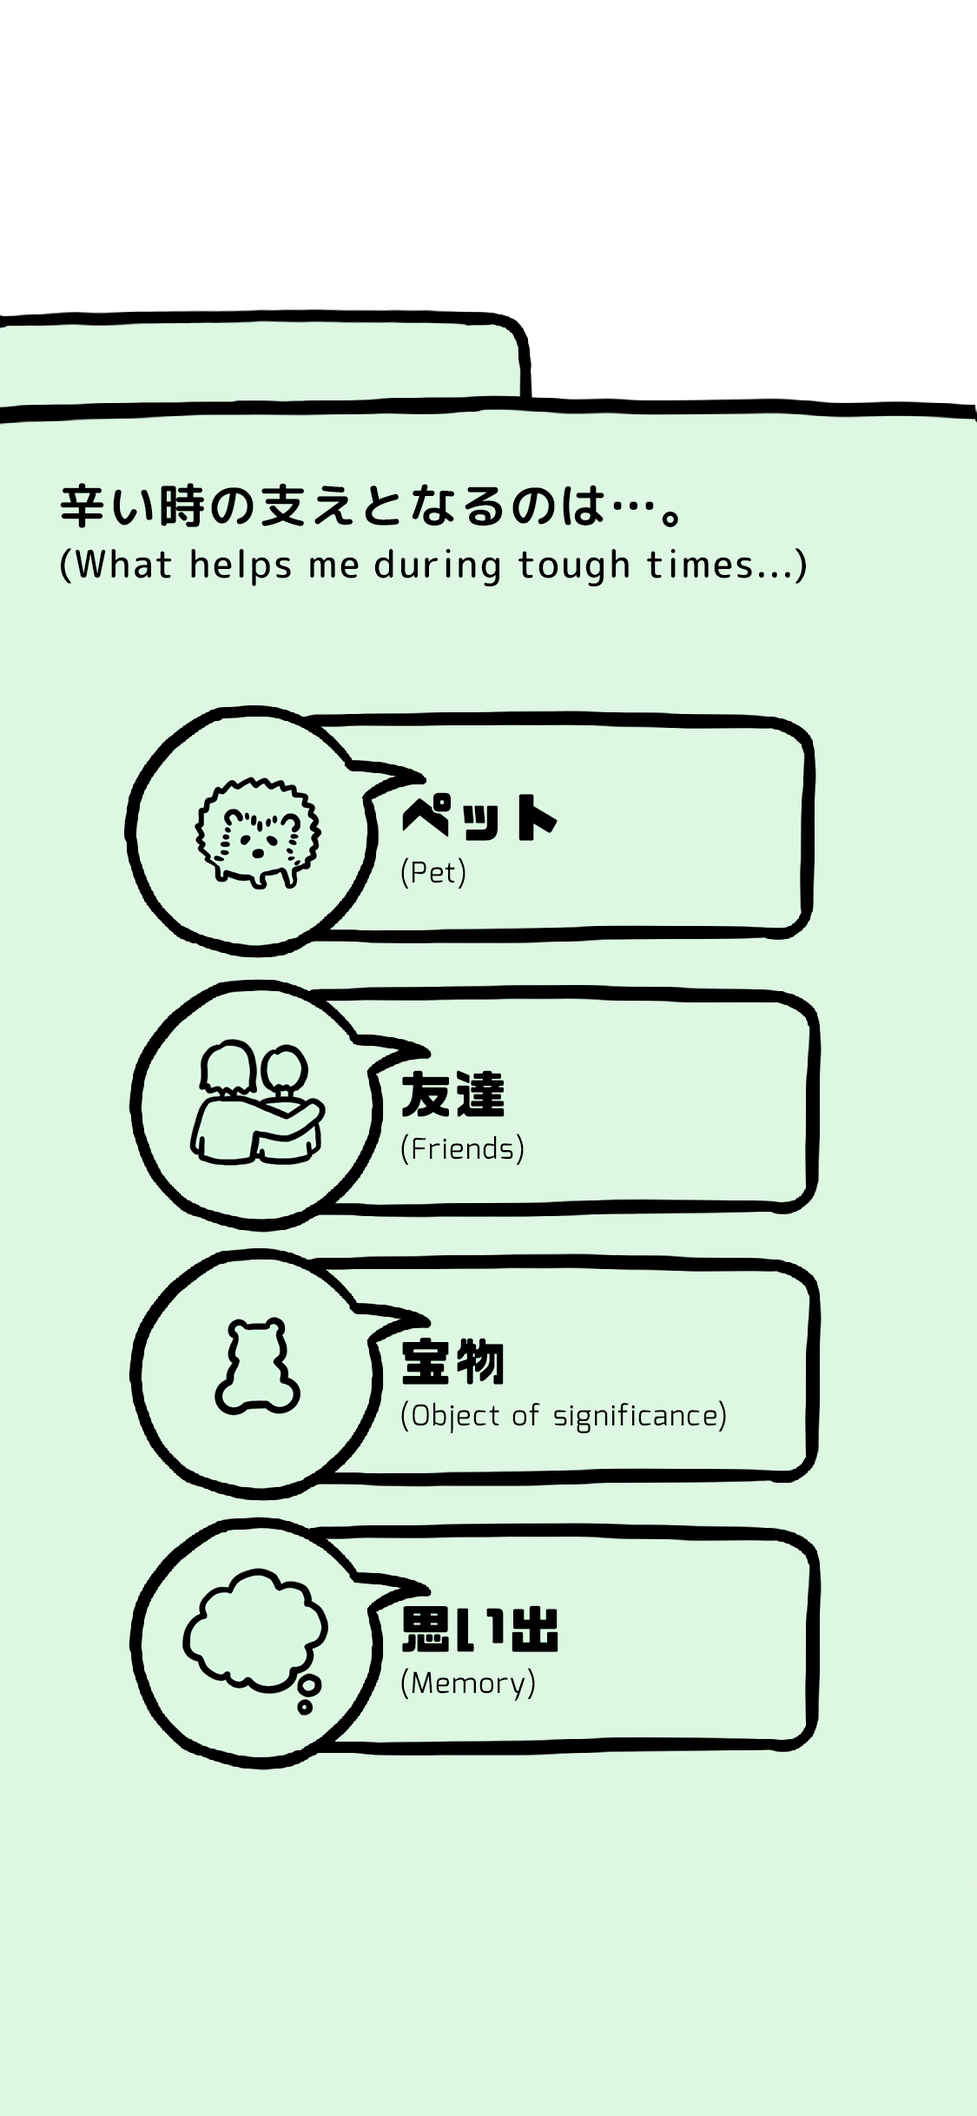
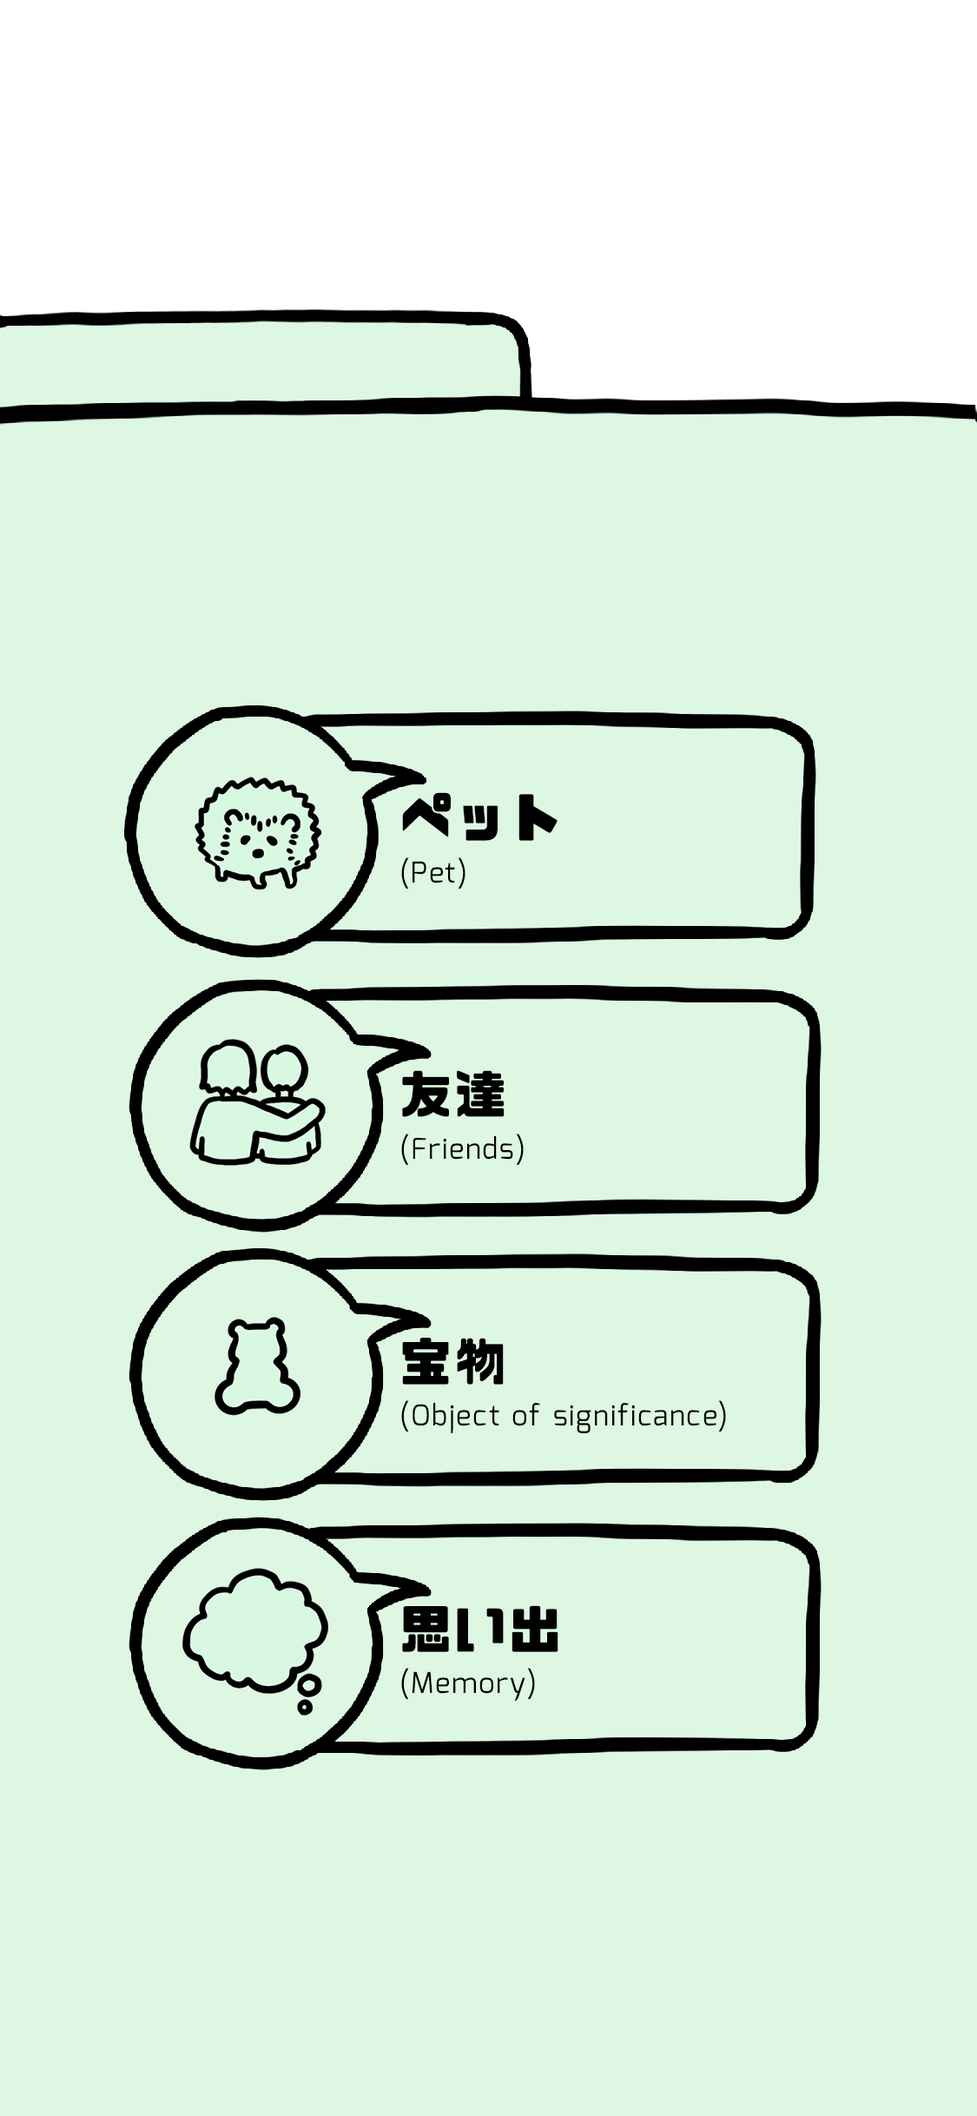
Process of adding text to chapter2

Changed region(s): [[0.0622, 0.2184, 0.6533, 0.2808], [0.6844, 0.2496, 0.7778, 0.2808]]

diff --git a/script/chapter2.js b/script/chapter2.js
@@ -32,55 +32,74 @@ class Chapter2 {
         let slide9Choices = new Choice(chapter2scene9options[0],chapter2scene9options[1],chapter2scene9options[2],chapter2scene9options[3]);
         let slide12Choices = new Choice(chapter2scene12options[0],chapter2scene12options[1],chapter2scene12options[2],chapter2scene12options[3]);
 
-        // let slideOneImages = [slide1Bird];
+        let slide3namePlate = ["MATSUBA","XXX","XXX"];
+        let slide3convoJ = [
+            "お腹すいたー。XXX今日の給食何か知ってる?", 
+            "マツバはいつも食べ物のこと考えてるよね。",
+            "知らないけどいい匂い!"];
+        let slide3convoE = [
+            "(I'm so hungry... Do you know what today's lunch is XXX?)", 
+            "(You're always talking about food Matsuba.)",
+            "(I don't know but it smells great.)"];
+        let slide3texts = new Txt(slide3namePlate, slide3convoJ, slide3convoE, null);
 
-        // this.nextSlideButton = new NextButton ("nextSlide");
+        let slide5namePlate = ["MATSUBA"];
+        let slide5convoJ = [
+            "ジャンボ餃子大好き！給食の中で一番好きなんだ。"];
+        let slide5convoE = [
+            "(I love Jumbo Gyoza. It's my favorite school lunch!)"];
+        let slide5texts = new Txt(slide5namePlate, slide5convoJ, slide5convoE, null);
 
-        // let slide3namePlate = ["SORA","XXX"];
-        // let slide3convoJ = [
-        //     "XXX おはよう！久しぶり。夏休みは長いようであっという間だったね。", 
-        //     "そうだね。ついに学校がまた始まっちゃったー。"];
-        // let slide3convoE = [
-        //     "(Hey XXX! I haven't seen you in so long! Time flew by so quickly.)", 
-        //     "(Yeah. By the time you know it, it's the first day of school again.)"];
-        // let slide3texts = new Txt(slide3namePlate, slide3convoJ, slide3convoE);
+        let slide6namePlate = ["MATSUBA & XXX"];
+        let slide6convoJ = [
+            "いただきまーす。"];
+        let slide6convoE = [
+            "('Japanese term to show appreciation of the food before the meal.')"];
+        let slide6texts = new Txt(slide6namePlate, slide6convoJ, slide6convoE, null);
 
-        // let slide5namePlate = ["XXX", "SORA", "SORA", "SORA"];
-        // let slide5convoJ = [
-        //     "そら、入部したい部活決めた？", "私はダンスクラブに入部したいんだ。", 
-        //     "少し恥ずかしいんだけど、でもダンスしてると悩みとか忘れて楽になれるんだよね。", 
-        //     "XXXは何部に興味ある?"];
-        // let slide5convoE = [
-        //     "(Hey Sora, did you decide what club to join?)", 
-        //     "(I want to join the dance club.)", 
-        //     "(I'm a bit embarrassed but while I am dancing, all my worries go away.)", 
-        //     "(Which club activities are you interested in XXX?)"];
-        // let slide5texts = new Txt(slide5namePlate, slide5convoJ, slide5convoE);
+        let slide8namePlate = ["MATSUBA"];
+        let slide8convoJ = [
+            "美味しい!XXXは給食の中で何が一番好き?"];
+        let slide8convoE = [
+            "(It's so good! What's your favorite school lunch XXX?)"];
+        let slide8texts = new Txt(slide8namePlate, slide8convoJ, slide8convoE, null);
 
-        // let slide8namePlate = ["SORA"];
-        // let slide8convoJ = [
-        //     "見てみて。これ私の犬のコトリ。"];
-        // let slide8convoE = [
-        //     "(Look look! This is my puppy, Kotori.)"];
-        // let slide8texts = new Txt(slide8namePlate, slide8convoJ, slide8convoE);
+        let slide9namePlate = ["XXX"];
+        let slide9convoJ = [
+            "学校で一番好きな給食は…。"];
+        let slide9convoE = [
+            "(My favorite school lunch is...)"];
+        let slide9texts = new Txt(slide9namePlate, slide9convoJ, slide9convoE, "choiceBox");
 
-        // let slide9namePlate = ["SORA", "SORA", "XXX"];
-        // let slide9convoJ = [ 
-        //     "一年前に飼った保護犬なんだけど今は六才ぐらいなの。", 
-        //     "本当大好き。小鳥無しだったら生きていけないわー。",
-        //     "かわいいね！いい写真。"];
-        // let slide9convoE = [
-        //     "(I rescued him from the shelter a year ago but now he's about 6 years old.)", 
-        //     "(I love him so much. I wouldn't know what to do without him.)", 
-        //     "(Wow he's so cute. That picture is great.)"];
-        // let slide9texts = new Txt(slide9namePlate, slide9convoJ, slide9convoE);
+        let slide11namePlate = ["XXX", "XXX", "XXX", "MATSUBA", "MATSUBA", "XXX", "MATSUBA", "MATSUBA", "MATSUBA"];
+        let slide11convoJ = [ 
+            "ごちそうさまでした。", 
+            "あーお腹いっぱい。餃子家で作ったことある？",
+            "難しそうだけどマツバならできそう。",
+            "一般的な餃子なら作ったことあるよ。",
+            "時間かかるけど意外と簡単だよ。",
+            "いつもは何作るの？", 
+            "ご飯と炒め物かな。お母さんは仕事で遅いから,",
+            "部活で忙しい妹の分も作って二人でテレビ見ながら夜ご飯食べるんだ。",
+            "XXXはいつも誰と夜ご飯べるの?"];
+        let slide11convoE = [
+            "('Japanese term to show appreciation of the food after the meal.')", 
+            "(I'm so full! Did you ever try cooking this gyoza at home?)", 
+            "(I know you'd probably make it even better!)",
+            "(Sure, I have made regular gyoza before.)",
+            "(It takes a long time but it's not that hard.)",
+            "(What do you usually cook?)", 
+            "(I usually make rice with stir-fry. Since our mom comes home late from work,)",
+            "(I make dinner for both me and my little sister and we have dinner together while watching TV.)", 
+            "(Who do you eat your dinners with? )"];
+        let slide11texts = new Txt(slide11namePlate, slide11convoJ, slide11convoE, null);
 
         // let slide10namePlate = ["SORA"];
         // let slide10convoJ = [ 
         //     "XXX は家族以外で、ないと生きていけないものとかある？"];
         // let slide10convoE = [
         //     "(Do you have something you can't live without besides your family?)"];
-        // let slide10texts = new Txt(slide10namePlate, slide10convoJ, slide10convoE);
+        // let slide10texts = new Txt(slide10namePlate, slide10convoJ, slide10convoE, null);
 
         // let slide13namePlate = ["student A", "student A", "student B", "student B"];
         // let slide13convoJ = [ 
@@ -93,7 +112,7 @@ class Chapter2 {
         //     "(She so beautiful and famous. It's such a shame.)",
         //     "(She was perfect with her co-actor in her last movie.)",
         //     "(They should have just dated. )"];
-        // let slide13texts = new Txt(slide13namePlate, slide13convoJ, slide13convoE);
+        // let slide13texts = new Txt(slide13namePlate, slide13convoJ, slide13convoE, null);
 
         // let slide14namePlate = ["SORA","XXX"];
         // let slide14convoJ = [ 
@@ -102,7 +121,7 @@ class Chapter2 {
         // let slide14convoE = [
         //     "...",
         //     "(What's wrong Sora?)"];
-        // let slide14texts = new Txt(slide14namePlate, slide14convoJ, slide14convoE);
+        // let slide14texts = new Txt(slide14namePlate, slide14convoJ, slide14convoE, null);
 
         // let slide15namePlate = ["SORA", "SORA"];
         // let slide15convoJ = [ 
@@ -111,7 +130,7 @@ class Chapter2 {
         // let slide15convoE = [
         //     "(What? Nothing. I'm fine.)",
         //     "(Just felt a bit nauseous. Maybe I'm just hungry.)"];
-        // let slide15texts = new Txt(slide15namePlate, slide15convoJ, slide15convoE);
+        // let slide15texts = new Txt(slide15namePlate, slide15convoJ, slide15convoE, null);
 
         // let slide17convoJ = [ 
         //     "好きな女の子に告白なんてできるわけない。",
@@ -119,7 +138,7 @@ class Chapter2 {
         // let slide17convoE = [
         //     "(There is no way I can tell my friend that I like her... )",
         //     "(People will just see me as a gross 'les'.)"];
-        // let slide17texts = new Txt(null, slide17convoJ, slide17convoE);
+        // let slide17texts = new Txt(null, slide17convoJ, slide17convoE, null);
 
         // let slide20convoJ = [ 
         //     "好きな女の子に好きって伝えたい！",
@@ -127,20 +146,20 @@ class Chapter2 {
         // let slide20convoE = [
         //     "(I'd like to tell my crush that I like her.)",
         //     "(But I'm scared of how my classmates will act.)"];
-        // let slide20texts = new Txt(null, slide20convoJ, slide20convoE);
+        // let slide20texts = new Txt(null, slide20convoJ, slide20convoE, null);
 
         //Slide(scene, nextButton, choices, texts, textInput)
         this.slides.push(new Slide(slide1scene, nextSlideButton, null, null, null )); //1
         this.slides.push(new Slide(slide2scene, nextSlideButton, null, null, null )); //2
-        this.slides.push(new Slide(slide3scene, nextSlideButton, null, null, null )); //3
+        this.slides.push(new Slide(slide3scene, nextSlideButton, null, slide3texts, null )); //3
         this.slides.push(new Slide(slide4scene, nextSlideButton, null, null, null )); //4
-        this.slides.push(new Slide(slide5scene, nextSlideButton, null, null, null )); //5
-        this.slides.push(new Slide(slide6scene, nextSlideButton, null, null, null )); //6
+        this.slides.push(new Slide(slide5scene, nextSlideButton, null, slide5texts, null )); //5
+        this.slides.push(new Slide(slide6scene, nextSlideButton, null, slide6texts, null )); //6
         this.slides.push(new Slide(slide7scene, nextSlideButton, null, null, null )); //7
-        this.slides.push(new Slide(slide8scene, nextSlideButton, null, null, null )); //8
-        this.slides.push(new Slide(slide9scene, nextSlideButton, slide9Choices, null, null )); //9
+        this.slides.push(new Slide(slide8scene, nextSlideButton, null, slide8texts, null )); //8
+        this.slides.push(new Slide(slide9scene, nextSlideButton, slide9Choices, slide9texts, null )); //9
         this.slides.push(new Slide(slide10scene, nextSlideButton, null, null, null )); //10
-        this.slides.push(new Slide(slide11scene, nextSlideButton, null, null, null )); //11
+        this.slides.push(new Slide(slide11scene, nextSlideButton, null, slide11texts, null )); //11
         this.slides.push(new Slide(slide12scene, nextSlideButton, slide12Choices, null, null )); //12
         this.slides.push(new Slide(slide13scene, nextSlideButton, null, null, null )); //13
         this.slides.push(new Slide(slide14scene, nextSlideButton, null, null, null )); //14

diff --git a/script/chapter1.js b/script/chapter1.js
@@ -43,7 +43,7 @@ class Chapter1 {
         let slide3convoE = [
             "(Hey XXX! I haven't seen you in so long! Time flew by so quickly.)", 
             "(Yeah. By the time you know it, it's the first day of school again.)"];
-        let slide3texts = new Txt(slide3namePlate, slide3convoJ, slide3convoE);
+        let slide3texts = new Txt(slide3namePlate, slide3convoJ, slide3convoE, null);
 
         let slide5namePlate = ["XXX", "SORA", "SORA", "SORA"];
         let slide5convoJ = [
@@ -55,14 +55,22 @@ class Chapter1 {
             "(I want to join the dance club.)", 
             "(I'm a bit embarrassed but while I am dancing, all my worries go away.)", 
             "(Which club activities are you interested in XXX?)"];
-        let slide5texts = new Txt(slide5namePlate, slide5convoJ, slide5convoE);
+        let slide5texts = new Txt(slide5namePlate, slide5convoJ, slide5convoE, null);
+
+        let slide6namePlate = ["XXX"];
+        let slide6convoJ = [
+            "興味がある部活は…。"];
+        let slide6convoE = [
+            "(The club activity I am interested in is...)"];
+        let slide6texts = new Txt(slide6namePlate, slide6convoJ, slide6convoE, "choiceBox");
+
 
         let slide8namePlate = ["SORA"];
         let slide8convoJ = [
             "見てみて。これ私の犬のコトリ。"];
         let slide8convoE = [
             "(Look look! This is my puppy, Kotori.)"];
-        let slide8texts = new Txt(slide8namePlate, slide8convoJ, slide8convoE);
+        let slide8texts = new Txt(slide8namePlate, slide8convoJ, slide8convoE, null);
 
         let slide9namePlate = ["SORA", "SORA", "XXX"];
         let slide9convoJ = [ 
@@ -73,14 +81,21 @@ class Chapter1 {
             "(I rescued him from the shelter a year ago but now he's about 6 years old.)", 
             "(I love him so much. I wouldn't know what to do without him.)", 
             "(Wow he's so cute. That picture is great.)"];
-        let slide9texts = new Txt(slide9namePlate, slide9convoJ, slide9convoE);
+        let slide9texts = new Txt(slide9namePlate, slide9convoJ, slide9convoE, null);
 
         let slide10namePlate = ["SORA"];
         let slide10convoJ = [ 
             "XXX は家族以外で、ないと生きていけないものとかある？"];
         let slide10convoE = [
             "(Do you have something you can't live without besides your family?)"];
-        let slide10texts = new Txt(slide10namePlate, slide10convoJ, slide10convoE);
+        let slide10texts = new Txt(slide10namePlate, slide10convoJ, slide10convoE, null);
+
+        let slide11namePlate = ["XXX"];
+        let slide11convoJ = [
+            "辛い時の支えとなるものは…。"];
+        let slide11convoE = [
+            "(What helps me during tough times...)"];
+        let slide11texts = new Txt(slide11namePlate, slide11convoJ, slide11convoE, "choiceBox");
 
         let slide13namePlate = ["student A", "student A", "student B", "student B"];
         let slide13convoJ = [ 
@@ -93,7 +108,7 @@ class Chapter1 {
             "(She so beautiful and famous. It's such a shame.)",
             "(She was perfect with her co-actor in her last movie.)",
             "(They should have just dated. )"];
-        let slide13texts = new Txt(slide13namePlate, slide13convoJ, slide13convoE);
+        let slide13texts = new Txt(slide13namePlate, slide13convoJ, slide13convoE, null);
 
         let slide14namePlate = ["SORA","XXX"];
         let slide14convoJ = [ 
@@ -102,7 +117,7 @@ class Chapter1 {
         let slide14convoE = [
             "...",
             "(What's wrong Sora?)"];
-        let slide14texts = new Txt(slide14namePlate, slide14convoJ, slide14convoE);
+        let slide14texts = new Txt(slide14namePlate, slide14convoJ, slide14convoE, null);
 
         let slide15namePlate = ["SORA", "SORA"];
         let slide15convoJ = [ 
@@ -111,7 +126,7 @@ class Chapter1 {
         let slide15convoE = [
             "(What? Nothing. I'm fine.)",
             "(Just felt a bit nauseous. Maybe I'm just hungry.)"];
-        let slide15texts = new Txt(slide15namePlate, slide15convoJ, slide15convoE);
+        let slide15texts = new Txt(slide15namePlate, slide15convoJ, slide15convoE, null);
 
         let slide17convoJ = [ 
             "好きな女の子に告白なんてできるわけない。",
@@ -119,7 +134,7 @@ class Chapter1 {
         let slide17convoE = [
             "(There is no way I can tell my friend that I like her... )",
             "(People will just see me as a gross 'les'.)"];
-        let slide17texts = new Txt(null, slide17convoJ, slide17convoE);
+        let slide17texts = new Txt(null, slide17convoJ, slide17convoE, null);
 
         let slide20convoJ = [ 
             "好きな女の子に好きって伝えたい！",
@@ -127,7 +142,7 @@ class Chapter1 {
         let slide20convoE = [
             "(I'd like to tell my crush that I like her.)",
             "(But I'm scared of how my classmates will act.)"];
-        let slide20texts = new Txt(null, slide20convoJ, slide20convoE);
+        let slide20texts = new Txt(null, slide20convoJ, slide20convoE, null);
 
         //Slide(scene, nextButton, choices, texts, textInput)
         this.slides.push(new Slide(slide1scene, nextSlideButton, null, null, null )); //1
@@ -135,12 +150,12 @@ class Chapter1 {
         this.slides.push(new Slide(slide3scene, nextSlideButton, null, slide3texts, null )); //3
         this.slides.push(new Slide(slide4scene, nextSlideButton, null, null, null )); //4
         this.slides.push(new Slide(slide5scene, nextSlideButton, null, slide5texts, null )); //5
-        this.slides.push(new Slide(slide6scene, nextSlideButton, slide6Choices, null, null )); //6
+        this.slides.push(new Slide(slide6scene, nextSlideButton, slide6Choices, slide6texts, null )); //6
         this.slides.push(new Slide(slide7scene, nextSlideButton, null, null, null )); //7
         this.slides.push(new Slide(slide8scene, nextSlideButton, null, slide8texts, null )); //8
         this.slides.push(new Slide(slide9scene, nextSlideButton, null, slide9texts, null )); //9
         this.slides.push(new Slide(slide10scene, nextSlideButton, null, slide10texts, null )); //10
-        this.slides.push(new Slide(slide11scene, nextSlideButton, slide11Choices, null, null )); //11
+        this.slides.push(new Slide(slide11scene, nextSlideButton, slide11Choices, slide11texts, null )); //11
         this.slides.push(new Slide(slide12scene, nextSlideButton, null, null, null )); //12
         this.slides.push(new Slide(slide13scene, nextSlideButton, null, slide13texts, null )); //13
         this.slides.push(new Slide(slide14scene, nextSlideButton, null, slide14texts, null )); //14

diff --git a/script/text.js b/script/text.js
@@ -1,8 +1,9 @@
 class Txt {
-    constructor(namePlate, convoJ, convoE){
+    constructor(namePlate, convoJ, convoE, choiceBox){
         this.namePlate = namePlate;
         this.convoJ = convoJ;
         this.convoE = convoE;
+        this.choiceBox = choiceBox;
 
         this.currentConvoIndex = 0;
 
@@ -14,22 +15,42 @@ class Txt {
 
     display() {
         //display namePlate
-        if(this.namePlate) {
+        if (this.choiceBox) {
+            if(this.namePlate) {
+                textFont(minaFontB);
+                textSize(20);
+                text(this.namePlate[this.currentConvoIndex],this.horizontalGrids, this.topOfScene+this.verticleGrids*4.7);
+            }
+    
+            //display Japanese text
+            textFont(corpFontB);
+            textSize(19);
+            textWrap(CHAR);
+            text(this.convoJ[this.currentConvoIndex], this.horizontalGrids, this.topOfScene+this.verticleGrids*6, this.horizontalGrids*8);
+    
+            //display English text
             textFont(minaFontB);
-            textSize(20);
-            text(this.namePlate[this.currentConvoIndex],this.horizontalGrids, this.topOfScene+this.verticleGrids*16.5);
+            textWrap(WORD);
+            text(this.convoE[this.currentConvoIndex], this.horizontalGrids, this.topOfScene+this.verticleGrids*7, this.horizontalGrids*8); 
+        } else {
+
+            if(this.namePlate) {
+                textFont(minaFontB);
+                textSize(20);
+                text(this.namePlate[this.currentConvoIndex],this.horizontalGrids, this.topOfScene+this.verticleGrids*16.5);
+            }
+    
+            //display Japanese text
+            textFont(corpFontB);
+            textSize(17);
+            textWrap(CHAR);
+            text(this.convoJ[this.currentConvoIndex], this.horizontalGrids, this.topOfScene+this.verticleGrids*18, this.horizontalGrids*8);
+    
+            //display English text
+            textFont(minaFontB);
+            textWrap(WORD);
+            text(this.convoE[this.currentConvoIndex], this.horizontalGrids, this.topOfScene+this.verticleGrids*20, this.horizontalGrids*8);       
         }
-
-        //display Japanese text
-        textFont(corpFontB);
-        textSize(17);
-        textWrap(CHAR);
-        text(this.convoJ[this.currentConvoIndex], this.horizontalGrids, this.topOfScene+this.verticleGrids*18, this.horizontalGrids*8);
-
-        //display English text
-        textFont(minaFontB);
-        textWrap(WORD);
-        text(this.convoE[this.currentConvoIndex], this.horizontalGrids, this.topOfScene+this.verticleGrids*20, this.horizontalGrids*8);
     }
 
     allConvoDisplayed() {

diff --git a/script/chapter0.js b/script/chapter0.js
@@ -17,7 +17,7 @@ class Chapter0 {
         let slide3convoE = [
             "(I'm XXX. An ordinary Japanese middle school student.)", 
             "(Today is my first day of school after a long summer break.)"];
-        let slide3texts = new Txt(null, slide3convoJ, slide3convoE);
+        let slide3texts = new Txt(null, slide3convoJ, slide3convoE, null);
 
         let slide4namePlate = ["MOTHER","XXX"];
         let slide4convoJ = [
@@ -26,7 +26,7 @@ class Chapter0 {
         let slide4convoE = [
             "(Have a nice day at school! Be careful since it's raining.)", 
             "(Okay, I will!)"];
-        let slide4texts = new Txt(slide4namePlate, slide4convoJ, slide4convoE);
+        let slide4texts = new Txt(slide4namePlate, slide4convoJ, slide4convoE, null);
 
 
         //Slide(scene, nextButton, choices, texts, textInput)
